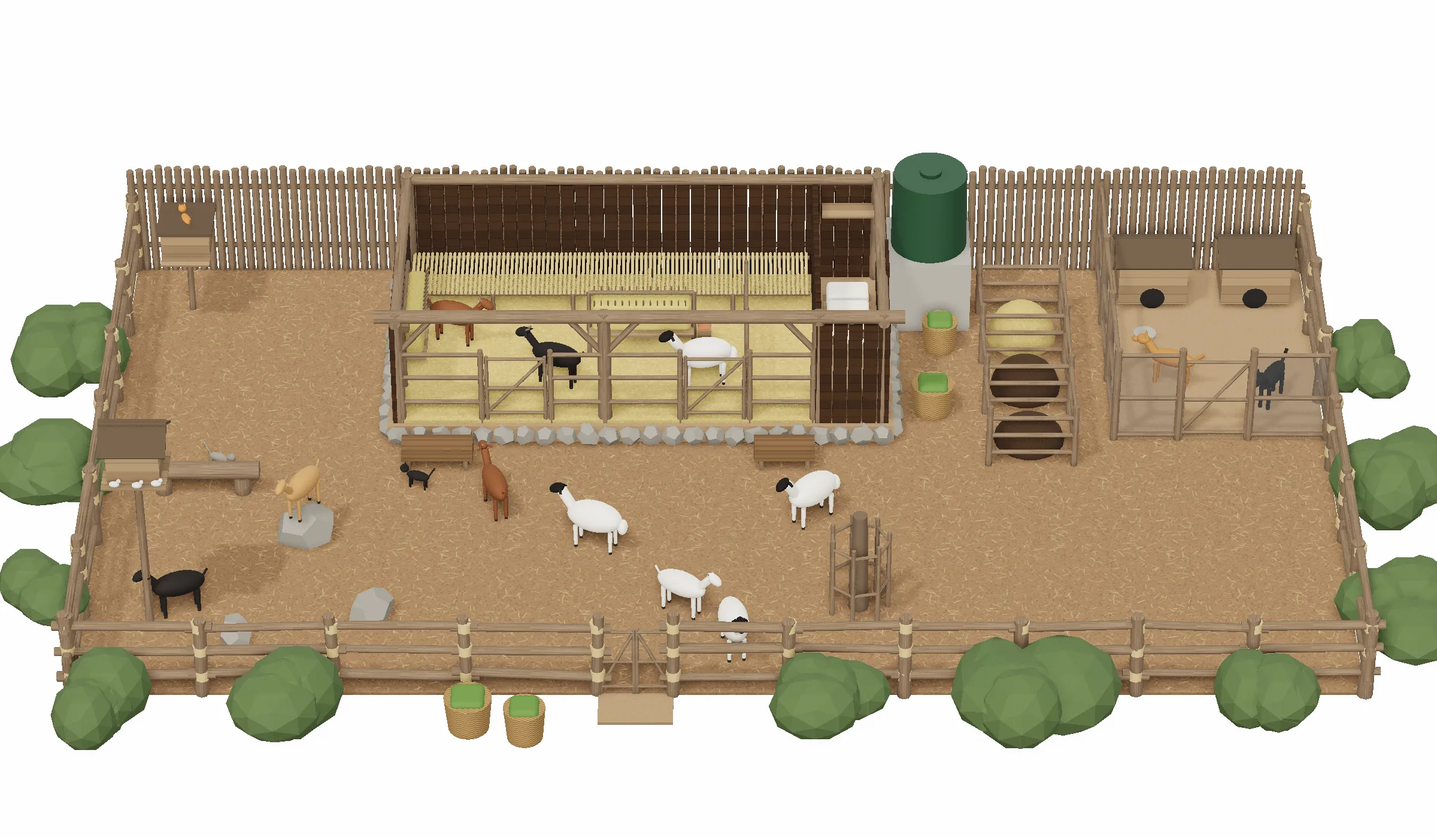
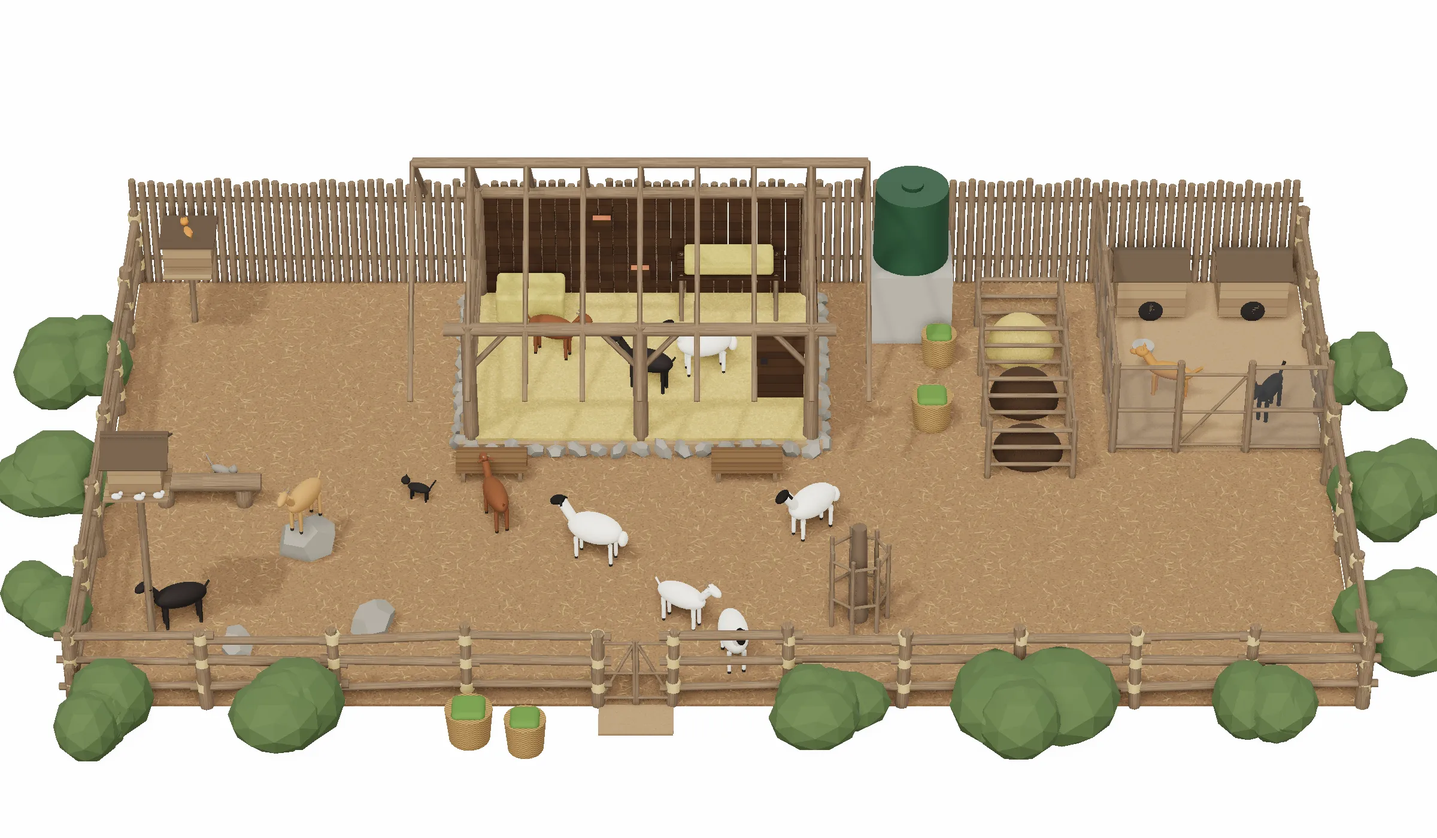
feat(livestock): the herd sleeps in a shed like the photo's; D-044
The founder asked for the herd's building to be the reference photo's shed. One
5.0 x 3.6 m shed replaces the hall and its feed store: boarded back and east end,
the west side open behind two rails, braced front posts, a steep thatched gable,
and inside a straw bale, a feed table and a lockable feed bin. The 3D shows the
gable's rafters with the thatch off, so the shed shows inside.

Claude-Session: https://claude.ai/code/session_01S6J7HfcfzMCDbDDKUuUjeQ

Changed region(s): [[0.0, 0.1843, 1.0, 0.9214], [0.125, 0.3686, 0.1875, 0.3993]]

diff --git a/scripts/site/render/livestock.html b/scripts/site/render/livestock.html
@@ -1,16 +1,15 @@
 <!doctype html>
 <!--
-  /en/livestock's 3D, in the pattern of the studio's (scripts/studio/render/room.html): the livestock yard (D-037 to
-  D-039) seen straight on from the paddock, the roofs off so the hall shows, on the white page. Built from
-  src/components/livestock/livestock.json (the numbers the 2D draws): one outline, the palisade at the back and one
-  post-and-rail fence round the rest; inside it the shelter of upright eucalyptus poles on its fieldstone plinth, the
-  open hall with straw litter, one slatted bamboo sleeping platform, two hay racks and the movable kidding hurdles,
-  the boarded feed store; the village yard the herd, the farm friends and the guests share, with troughs, climbing
-  stones, the guarded shade tree, the dovecote, the cats' house and a bench; the tank, the fodder baskets, the
-  compost bays and the guard dogs' run in the back east corner; shrubs round the outside. 6 goats, 4 sheep, 2 dogs,
-  3 cats and doves. In the feel of the founder's reference photo (D-041): hand-cut poles that lean a little, rails
-  lashed bay by bay, soft overcast light. The crowns of the trees are cut like the roof: from this height they would
-  hide the hall and the store; the trees behind the palisade show only at eye level. Rendered three ways:
+  /en/livestock's 3D, in the pattern of the studio's (scripts/studio/render/room.html): the livestock yard (D-039 to
+  D-044) seen straight on from the paddock, on the white page. Built from src/components/livestock/livestock.json (the
+  numbers the 2D draws): one outline, the palisade at the back and one post-and-rail fence round the rest, its rails
+  thick, crooked and lashed with rope as the founder's photo's; inside it the herd's shed, as the photo's shed: dark
+  weathered boards at the back and the east end, the west side open behind two rails, heavy front posts braced to the
+  eaves beam, the steep gable's rafters standing with the thatch off (as the studio's roof), straw, a straw bale, a
+  slatted feed table, a lockable feed bin and the mineral boxes; the village yard with troughs, climbing stones, the
+  guarded shade tree, the dovecote, the cats' house and a bench; the tank, the fodder baskets, the compost bays and
+  the guard dogs' run in the back east corner; shrubs round the outside. 6 goats, 4 sheep, 2 dogs, 3 cats and doves,
+  in soft overcast light. The page's hero is the founder's photo (D-042), not a render. Rendered three ways:
 
     ?mode=line  line drawing on a transparent ground   -> public/designs/livestock/render/livestock-line.png
     ?mode=real  materials, daylight and soft shadow    -> public/designs/livestock/render/livestock-real.webp
@@ -169,7 +168,7 @@ function mat(name) {
       fodder: () => std({ color: "#5d7d3a", roughness: 0.9 }),
       trunk: () => std({ color: "#6d5a48", roughness: 0.9 }),
       leaf: () => std({ color: "#55663f", roughness: 0.95, flatShading: true }),
-      thatch: () => std({ map: T.thatch, roughness: 1, side: THREE.DoubleSide }),
+      thatch: () => std({ map: T.thatch, color: "#a39684", roughness: 1, side: THREE.DoubleSide }), // grey-brown, weathered, as the photo's
       lawn: () => std({ map: T.grass, roughness: 1 }),
       face: () => std({ color: "#211c19", roughness: 0.85 }),
       horn: () => std({ color: "#7d6e5e", roughness: 0.6 }),
@@ -228,19 +227,18 @@ function pipe(a, b, r, name, seg = 6) {
 const pole = (x, z, r, y0, y1, seg = 7) => cyl(x, z, r, y0, y1 - y0, "pole", seg, r * 0.92)
 
 // ------------------------------------------------------------ the plan
-const { shelter: S, pens: P, platform: PF, fittings: FT, yards: Y, palisade: PA, stones: ST, tree: TR, tank: TK,
+const { shelter: S, pens: P, fittings: FT, yards: Y, palisade: PA, stones: ST, tree: TR, tank: TK,
   baskets: BK, compost: CO, dogs: DG, friends: FR, planting: PL, animals: AN } = C
 const L = S.l / 2, W = S.d / 2, WALL = S.wall
 const FL = S.plinth.h // the plinth's top, the pens' floor
 const LIT = FL + 0.05 // the top of the straw litter
 const EAVE = S.roof.eaves
-const { hall: HALL, kidding: KID, store: STORE } = P
 const RAILS = [0.35, 0.78, 1.18]
 
 // ------------------------------------------------------------ the ground: the village yard's earth and straw inside the outline, the plinth
 blk(Y.x0, Y.y0, Y.x1, Y.y1, -0.02, 0.02, "yard")
 blk(Y.gate.x0, Y.y1, Y.gate.x0 + Y.gate.w, Y.y1 + 0.6, -0.02, 0.015, "packed") // the track out of the gate to the paddock
-// the path behind the store to the tank, the baskets and the compost bays
+// the path past the shed's east end to the tank, the baskets and the compost bays
 blk(L + S.plinth.edge, -W - 0.4, CO.x0 + CO.bay + 0.3, W, -0.02, 0.015, "packed")
 if (HERO) {
   T.grass.repeat.set(10, 10)
@@ -261,37 +259,11 @@ if (HERO) {
   }
   const [a, b, c, d] = [-L - e + 0.13, L + e - 0.13, -W - e + 0.13, W + e - 0.13]
   ring(a, d, b, d); ring(a, c, a, d); ring(b, c, b, d)
-  blk(-L + WALL, -W + WALL, HALL.x1 - 0.03, W, FL, LIT, "litter")
+  blk(-L + 0.02, -W + WALL, L - WALL, W, FL, LIT, "litter")
 }
 
-// ------------------------------------------------------------ the shelter, as the founder's photo's shed: wide dark weathered boards set upright at the
-// back and the ends, heavy barked posts along the open front, braced to the eaves beam
-{
-  const plank = (x0, z0, x1, z1) => blk(x0, z0, x1, z1, FL, EAVE - 0.04 + (rnd() - 0.5) * 0.06, "plank")
-  for (let x = -L; x < L - 0.05; x += 0.21) plank(x, -W, Math.min(x + 0.19, L), -W + WALL)
-  for (let z = -W + WALL; z < W - 0.05; z += 0.21) plank(-L, z, -L + WALL, Math.min(z + 0.19, W))
-  // the east end: boards beside the store's door, which opens onto the path behind
-  const door = 0.7
-  for (let z = -W + WALL; z < W - 0.05; z += 0.21) if (z + 0.19 < -0.02 || z > door + 0.02) plank(L - WALL, z, L, Math.min(z + 0.19, W))
-  // the corner and front posts, heavy and barked; the eaves beam and the wall plates; a knee brace at each front post
-  const posts = [-L + 0.09, (HALL.x0 + HALL.x1) / 2, STORE.x0, L - 0.09]
-  for (const x of posts) pole(x, W - 0.09, 0.1, FL, EAVE + 0.18, 9)
-  for (const x of [-L + 0.09, L - 0.09]) pole(x, -W + 0.09, 0.1, FL, EAVE + 0.12, 9)
-  pipe([-L - 0.2, EAVE + 0.1, W - 0.09], [L + 0.2, EAVE + 0.1, W - 0.09], 0.1, "pole", 9)
-  pipe([-L, EAVE + 0.04, -W + 0.09], [L, EAVE + 0.04, -W + 0.09], 0.08, "pole", 9)
-  for (const x of [-L + 0.09, L - 0.09]) pipe([x, EAVE + 0.04, -W], [x, EAVE + 0.04, W], 0.08, "pole", 9)
-  for (const x of posts) for (const s of [-1, 1]) {
-    if ((x === posts[0] && s < 0) || (x === posts.at(-1) && s > 0)) continue
-    pipe([x, EAVE - 0.55, W - 0.09], [x + s * 0.5, EAVE + 0.06, W - 0.09], 0.045, "pole", 6)
-  }
-  // the store's boarded walls: its west wall, its front onto the yard, its door shut on a hasp
-  for (let z = -W + WALL; z < W - 0.05; z += 0.21) blk(STORE.x0 - 0.04, z, STORE.x0 + 0.04, Math.min(z + 0.19, W), FL, EAVE, "plank")
-  for (let x = STORE.x0; x < L - WALL - 0.05; x += 0.21) blk(x, W - 0.07, Math.min(x + 0.19, L - WALL), W, FL, EAVE, "plank")
-  blk(L - 0.04, 0, L + 0.01, door, FL, FL + 1.9, "plank")
-  blk(L + 0.01, 0.06, L + 0.03, 0.18, FL + 1.0, FL + 1.06, "pole")
-}
-
-// ------------------------------------------------------------ the hall: one open space; its front a rail and two gates, shut at night
+// ------------------------------------------------------------ the herd's shed, as the founder's photo's: wide dark weathered boards set upright at the back and
+// the east end, the west side open behind two rails, heavy barked posts along the open front braced to the eaves beam
 function rails(x0, z0, x1, z1, y0, heights, r = 0.035) {
   for (const h of heights) pipe([x0, y0 + h, z0], [x1, y0 + h, z1], r, "pole", 7)
 }
@@ -301,51 +273,37 @@ function gate(x0, z0, x1, z1, y0, h) { // shut: a frame of thin poles with a dia
   pipe([x0, y0 + 0.12, z0], [x1, y0 + h - 0.04, z1], 0.025, "pole", 6)
 }
 {
-  const ends = [HALL.x0 + WALL, ...P.gates.flatMap((g) => [g, g + P.gate]), HALL.x1 - 0.03]
-  for (let i = 0; i < ends.length; i += 2) {
-    pole(ends[i] + 0.04, W - 0.04, 0.045, FL, FL + 1.25); pole(ends[i + 1] - 0.04, W - 0.04, 0.045, FL, FL + 1.25)
-    rails(ends[i], W - 0.04, ends[i + 1], W - 0.04, FL, RAILS)
+  const plank = (x0, z0, x1, z1) => blk(x0, z0, x1, z1, FL, EAVE - 0.04 + (rnd() - 0.5) * 0.06, "plank")
+  for (let x = -L + 0.18; x < L - 0.05; x += 0.21) plank(x, -W, Math.min(x + 0.19, L), -W + WALL)
+  for (let z = -W + WALL; z < W - 0.15; z += 0.21) plank(L - WALL, z, L, Math.min(z + 0.19, W - 0.15))
+  // the posts: the four corners and the middle of the front, heavy and barked; the eaves beam and the plates
+  const posts = [-L + 0.09, 0, L - 0.09]
+  for (const x of posts) pole(x, W - 0.09, 0.11, FL, EAVE + 0.18, 9)
+  for (const x of [-L + 0.09, L - 0.09]) pole(x, -W + 0.09, 0.1, FL, EAVE + 0.12, 9)
+  pipe([-L - 0.25, EAVE + 0.1, W - 0.09], [L + 0.25, EAVE + 0.1, W - 0.09], 0.1, "pole", 9)
+  pipe([-L - 0.2, EAVE + 0.04, -W + 0.09], [L + 0.2, EAVE + 0.04, -W + 0.09], 0.09, "pole", 9)
+  for (const x of [-L + 0.09, L - 0.09]) pipe([x, EAVE + 0.04, -W], [x, EAVE + 0.04, W], 0.08, "pole", 9)
+  for (const x of posts) for (const s of [-1, 1]) { // a knee brace each side of each front post, as the photo's
+    if ((x === posts[0] && s < 0) || (x === posts.at(-1) && s > 0)) continue
+    pipe([x, EAVE - 0.6, W - 0.09], [x + s * 0.55, EAVE + 0.06, W - 0.09], 0.045, "pole", 6)
   }
-  for (const g of P.gates) gate(g + 0.04, W - 0.04, g + P.gate - 0.04, W - 0.04, FL + 0.04, 1.1)
-  // the movable kidding hurdles, standing across the hall's east end
-  const kz0 = -W + WALL + PF.d + 0.05, kz1 = W - 0.2
-  for (const z of [kz0, (kz0 + kz1) / 2, kz1]) pole(KID.x0, z, 0.035, LIT, LIT + 1.0)
-  rails(KID.x0, kz0, KID.x0, kz1, LIT, [0.25, 0.6, 0.95], 0.028)
-}
-
-// ------------------------------------------------------------ in the hall: the sleeping platform, the hay racks, the mineral boxes
-{
-  const px0 = HALL.x0 + WALL + 0.03, px1 = HALL.x1 - 0.07
-  const z0 = -W + WALL + 0.02, z1 = -W + WALL + PF.d, top = LIT + PF.h
-  for (let x = px0 + 0.04; x <= px1 - 0.03; x += Math.min(1.2, (px1 - px0) / Math.ceil((px1 - px0) / 1.2)))
-    for (const z of [z0 + 0.04, z1 - 0.04]) pole(x, z, 0.035, LIT - 0.02, top - 0.03)
-  for (const z of [z0 + 0.05, z1 - 0.05]) pipe([px0, top - 0.05, z], [px1, top - 0.05, z], 0.035, "pole", 7)
-  for (let x = px0 + 0.03; x < px1 - 0.02; x += LINE ? 0.11 : 0.065) pipe([x, top - 0.01, z0], [x, top - 0.01, z1], 0.025, "bamboo", 6)
-  // the racks, off the floor: a pole frame, slanted bars, a tray, hay; the west one on the wall, the middle one fed from both sides
-  const y0 = LIT + FT.rack.y0, y1 = y0 + FT.rack.h
-  for (const r of FT.racks) {
-    const alongZ = r.y1 - r.y0 > r.x1 - r.x0
-    for (const [x, z] of alongZ ? [[r.x0 + 0.04, r.y0], [r.x0 + 0.04, r.y1]] : [[r.x0, (r.y0 + r.y1) / 2], [r.x1, (r.y0 + r.y1) / 2]]) pole(x, z, 0.035, LIT, y1)
-    blk(r.x0, r.y0, r.x1, r.y1, y0 - 0.05, y0, "board")
-    if (alongZ) for (let z = r.y0 + 0.08; z < r.y1 - 0.04; z += LINE ? 0.15 : 0.1) pipe([r.x1, y1 - 0.02, z], [r.x0 + 0.06, y0, z], 0.012, "pole", 5)
-    else for (let x = r.x0 + 0.08; x < r.x1 - 0.04; x += LINE ? 0.15 : 0.1) for (const s of [-1, 1]) pipe([x, y1 - 0.02, (r.y0 + r.y1) / 2 + s * 0.17], [x, y0, (r.y0 + r.y1) / 2], 0.012, "pole", 5)
-    pipe(alongZ ? [r.x0 + 0.04, y1, r.y0] : [r.x0, y1, (r.y0 + r.y1) / 2], alongZ ? [r.x0 + 0.04, y1, r.y1] : [r.x1, y1, (r.y0 + r.y1) / 2], 0.03, "pole", 7)
-    if (!LINE) soft(r.x0 + 0.04, r.y0 + 0.04, r.x1 - 0.04, r.y1 - 0.04, y0, y1 - 0.1, 0.08, "hay")
-  }
-  // the goats' mineral box high on the west wall, the sheep's low by the middle rack
-  for (const m of FT.minerals) {
-    if (m.for === "sheep") pole((m.x0 + m.x1) / 2, (m.y0 + m.y1) / 2, 0.03, LIT, LIT + m.z)
-    blk(m.x0, m.y0, m.x1, m.y1, LIT + m.z, LIT + m.z + 0.2, "board")
+  // the open west side: two barked rails between the corner posts
+  rails(-L + 0.09, -W + 0.09, -L + 0.09, W - 0.09, FL, P.rails, 0.05)
+  // inside, as the photo's: the straw bale, the slatted feed table with hay, the lockable feed bin, the mineral boxes
+  const b = P.bale
+  soft(b.x0, b.y0, b.x1, b.y1, LIT, LIT + 0.5, 0.07, "hay")
+  const t = P.table
+  for (const x of [t.x0 + 0.06, t.x1 - 0.06]) for (const z of [t.y0 + 0.06, t.y1 - 0.06]) pole(x, z, 0.035, LIT, LIT + t.h)
+  for (let z = t.y0; z < t.y1 - 0.02; z += 0.1) blk(t.x0, z, t.x1, z + 0.08, LIT + t.h - 0.03, LIT + t.h, "plank")
+  if (!LINE) soft(t.x0 + 0.1, t.y0 + 0.05, t.x1 - 0.1, t.y1 - 0.05, LIT + t.h, LIT + t.h + 0.2, 0.06, "hay")
+  const n = P.bin
+  blk(n.x0, n.y0, n.x1, n.y1, LIT, LIT + 0.8, "plank")
+  blk(n.x0 - 0.02, n.y0 - 0.02, n.x1 + 0.02, n.y1 + 0.02, LIT + 0.8, LIT + 0.84, "plank")
+  if (!LINE) blk(n.x0 + 0.05, n.y1 + 0.02, n.x0 + 0.15, n.y1 + 0.04, LIT + 0.62, LIT + 0.72, "dogblack") // its hasp
+  for (const m of P.minerals) {
+    blk(m.x0, m.y0, m.x1, m.y1, LIT + m.z, LIT + m.z + 0.2, "plank")
     if (!LINE) blk(m.x0 + 0.02, m.y0 + 0.02, m.x1 - 0.02, m.y1 - 0.02, LIT + m.z + 0.18, LIT + m.z + 0.21, "mineral")
   }
-}
-
-// ------------------------------------------------------------ the feed store: sacks on a pallet, a shelf
-{
-  const [x0, x1] = [STORE.x0 + 0.12, STORE.x1 - 0.18]
-  blk(x0, -1.2, x1, 0.2, FL, FL + 0.12, "board")
-  for (const [z, k] of [[-0.95, 0], [-0.5, 0], [-0.05, 0], [-0.72, 1], [-0.27, 1]]) soft(x0 + 0.05, z - 0.19, x1 - 0.05, z + 0.19, FL + 0.12 + k * 0.2, FL + 0.32 + k * 0.2, 0.06, "sack")
-  blk(STORE.x0 + 0.1, -W + WALL, L - WALL, -W + WALL + 0.35, FL + 1.3, FL + 1.33, "board")
 }
 
 // ------------------------------------------------------------ the outline and the yard: posts and three lashed rails, the gate, troughs
@@ -440,15 +398,17 @@ for (const s of ST.list) {
   }
 }
 
-// ------------------------------------------------------------ the roof, at eye level only: grass thatch on a pole gable
-if (HERO) {
-  const o = S.roof.over, rise = S.roof.ridge - EAVE, half = W + o
-  const len = Math.hypot(half, rise), a = Math.atan2(rise, half)
-  for (const s of [1, -1]) {
-    const r = add(new THREE.BoxGeometry(S.l + 2 * o, 0.25, len), "thatch", { pos: [0, EAVE + rise / 2 + 0.1, (s * half) / 2] })
-    r.rotation.x = s * a
+// ------------------------------------------------------------ the roof, as the photo's steep gable: the thatch off in this cutaway (as the studio's roof),
+// its pole rafters and ridge left standing so the shape reads and the shed shows inside
+{
+  const o = S.roof.over, rise = S.roof.ridge - EAVE, R = S.roof.ridge + 0.05
+  for (const x of [-L + 0.09, L - 0.09]) pole(x, 0, 0.07, EAVE, S.roof.ridge)
+  pipe([-L - o, R, 0], [L + o, R, 0], 0.08, "pole", 8)
+  const n = Math.round((S.l + 2 * o) / 0.8)
+  for (let k = 0; k <= n; k++) {
+    const x = -L - o + ((S.l + 2 * o) * k) / n
+    for (const s of [1, -1]) pipe([x, R, 0], [x, EAVE - (o * rise) / W + 0.1, s * (W + o)], 0.045, "pole", 6)
   }
-  for (const s of [1, -1]) pole(s * (L - WALL / 2), 0, 0.07, EAVE, S.roof.ridge)
 }
 
 // ------------------------------------------------------------ the herd: 6 goats and 4 sheep

diff --git a/src/components/livestock/livestock-plan.tsx b/src/components/livestock/livestock-plan.tsx
@@ -2,13 +2,14 @@ import livestock from "./livestock.json"
 
 // The livestock yard drawn in the pattern of the studio's plan (public/designs/studio/render/plan.svg): solid walls
 // in black, fittings in thin outline, what is where named in one row above and only the two overall dimensions.
-// One outline holds it all (D-039): the palisade at the back, one post-and-rail fence round the rest. The shelter's
-// open hall faces down the page onto the village yard, toward the paddock and the viewer of the 3D. Units are
+// One outline holds it all (D-039): the palisade at the back, one post-and-rail fence round the rest. The herd's shed,
+// as the founder's photo's (D-044), opens down the page onto the village yard, toward the paddock and the viewer of
+// the 3D. Units are
 // metres, the shelter's centre at 0,0, y toward the yard. All in currentColor, so the page sets its colour.
 
-const { shelter, pens, platform, fittings, yards, palisade, stones, tree, tank, baskets, compost, dogs, friends, planting } = livestock
-const WALL = 0.1 // the pole back wall and the ends, and the feed store's boarded walls
-const FENCE = 0.04 // the rail and gates across the hall's open front
+const { shelter, pens, fittings, yards, palisade, stones, tree, tank, baskets, compost, dogs, friends, planting } = livestock
+const WALL = 0.1 // the shed's boarded back and east end
+const FENCE = 0.04 // the rails along the shed's open west side
 const line = { fill: "none", stroke: "currentColor", strokeWidth: 0.9, vectorEffect: "non-scaling-stroke" } as const
 const fine = { ...line, strokeWidth: 0.6 } as const
 const dashed = { ...line, strokeDasharray: "4 3" } as const
@@ -72,9 +73,7 @@ function DimensionUp({ y0, y1, x }: { y0: number; y1: number; x: number }) {
 
 export function LivestockPlan({ title, className }: { title: string; className?: string }) {
   const L = shelter.l / 2, W = shelter.d / 2, E = shelter.plinth.edge
-  const { hall, kidding, store } = pens
   const Y = yards.y1
-  const door = 0.7
   const { dovecote, cats, bench } = friends
   const yg = yards.gate, dg = dogs.gate
   const edge = { x0: Math.min(...planting.shrubs.map((b) => b.x - b.r)), x1: Math.max(...planting.shrubs.map((b) => b.x + b.r)),
@@ -82,9 +81,6 @@ export function LivestockPlan({ title, className }: { title: string; className?:
   const x0 = edge.x0 - 0.3, x1 = edge.x1 + 0.75
   const dimY = edge.y1 + 0.35, top = palisade.y - 0.6, bottom = dimY + 0.6
   const row = palisade.y - 0.25 // the names, in one row above the palisade
-  const px0 = hall.x0 + WALL + 0.03, px1 = hall.x1 - WALL / 2 - 0.03 // the sleeping platform
-  const py0 = -W + WALL, py1 = -W + WALL + platform.d
-  const front = [hall.x0 + WALL, ...pens.gates.flatMap((g) => [g, g + pens.gate]), hall.x1] // rail runs between the gates
   return (
     <svg viewBox={`${f(x0)} ${f(top)} ${f(x1 - x0)} ${f(bottom - top)}`} role="img" aria-label={title} className={className}>
       {/* The outline: the palisade of upright poles at the back, one post-and-rail fence round the rest, one gate of
@@ -98,33 +94,27 @@ export function LivestockPlan({ title, className }: { title: string; className?:
       <Fence x0={yards.x1} y0={Y} x1={yards.x1} y1={yards.y0} />
       {[yg.x0, yg.x0 + yg.w].map((x, i) => <Gate key={x} x={x} y={Y} w={yg.w / 2} c={[i ? -1 : 1, 0]} o={[0, -1]} />)}
 
-      {/* The shelter on its fieldstone plinth: pole back wall and ends to the eaves, the feed store boarded with its
-          door on the east gable */}
+      {/* The shed, as the photo's, on its low fieldstone plinth: the thatch's overhang dashed, the back and the east end
+          boarded, the west side open behind two rails, the front open under its braced posts (dots) */}
+      <rect {...rect(-L - shelter.roof.over, -W - shelter.roof.over, L + shelter.roof.over, W + shelter.roof.over)} {...dashed} />
       <rect {...rect(-L - E, -W - E, L + E, W + E)} {...fine} />
       <rect {...rect(-L, -W, L, -W + WALL)} {...solid} />
-      <rect {...rect(-L, -W, -L + WALL, W)} {...solid} />
-      <rect {...rect(L - WALL, -W, L, 0)} {...solid} />
-      <rect {...rect(L - WALL, door, L, W)} {...solid} />
-      <Gate x={L} y={door} w={door} c={[0, -1]} o={[1, 0]} />
-      <rect {...rect(store.x0 - WALL / 2, -W + WALL, store.x0 + WALL / 2, W)} {...solid} />
-      <rect {...rect(store.x0, W - WALL, L, W)} {...solid} />
+      <rect {...rect(L - WALL, -W, L, W)} {...solid} />
+      <rect {...rect(-L + 0.02, -W + WALL, -L + 0.02 + FENCE, W - 0.1)} {...solid} />
+      {[-L + 0.09, 0, L - 0.09].map((x) => <circle key={x} cx={f(x)} cy={f(W - 0.09)} r={0.1} {...solid} />)}
+      <circle cx={f(-L + 0.09)} cy={f(-W + 0.09)} r={0.1} {...solid} />
 
-      {/* The hall's open front: a rail and two gates, shut at night */}
-      {front.filter((_, i) => i % 2 === 0).map((a, i) => <rect key={a} {...rect(a, W - FENCE / 2, front[i * 2 + 1], W + FENCE / 2)} {...solid} />)}
-      {pens.gates.map((g) => <Gate key={g} x={g + pens.gate} y={W} w={pens.gate} c={[-1, 0]} o={[0, 1]} />)}
-
-      {/* In the hall: the bamboo sleeping platform along the whole back, the movable kidding hurdles (dashed), the hay
-          racks on the west wall and in the middle, the goats' mineral box high, the sheep's low */}
-      <rect {...rect(px0, py0, px1, py1)} {...line} />
-      {Array.from({ length: Math.floor((px1 - px0) / 0.25) }, (_, k) => f(px0 + (k + 1) * 0.25)).filter((x) => x < px1 - 0.05).map((x) => (
-        <line key={x} x1={x} x2={x} y1={f(py0)} y2={f(py1)} {...fine} />
-      ))}
-      <path d={`M${kidding.x0} ${f(py1)}L${kidding.x0} ${f(W - 0.15)}`} {...dashed} />
-      {fittings.racks.map((r) => <rect key={r.x0} {...box(r)} {...line} />)}
-      {fittings.minerals.map((m) => <rect key={m.x0} {...box(m)} {...line} />)}
-
-      {/* The feed store: three sacks on a pallet */}
-      {[-0.95, -0.5, -0.05].map((y) => <rect key={y} {...rect(store.x0 + 0.18, y - 0.18, store.x1 - 0.18, y + 0.18)} rx={0.07} {...line} />)}
+      {/* Inside, as the photo's: the straw bale, the slatted feed table, the lockable feed bin; the goats' mineral box
+          high on the back wall and the sheep's low */}
+      <rect {...box(pens.bale)} rx={0.08} {...line} />
+      <rect {...box(pens.table)} {...line} />
+      {[0.25, 0.5, 0.75].map((t) => {
+        const x = f(pens.table.x0 + (pens.table.x1 - pens.table.x0) * t)
+        return <line key={t} x1={x} x2={x} y1={pens.table.y0} y2={pens.table.y1} {...fine} />
+      })}
+      <rect {...box(pens.bin)} {...line} />
+      <line x1={pens.bin.x0} x2={pens.bin.x1} y1={pens.bin.y0} y2={pens.bin.y1} {...fine} />
+      {pens.minerals.map((m) => <rect key={m.x0} {...box(m)} {...line} />)}
 
       {/* In the yard: the troughs under the eaves, stones to climb, the shade tree in its pole guard */}
       {fittings.troughs.map((t) => <rect key={t.x0} {...rect(t.x0, W + 0.4, t.x1, W + 0.4 + fittings.trough.d)} rx={0.08} {...line} />)}
@@ -140,7 +130,7 @@ export function LivestockPlan({ title, className }: { title: string; className?:
       <circle cx={cats.house.x} cy={cats.house.y} r={0.07} {...solid} />
       <rect {...rect(bench.x0, bench.y - 0.15, bench.x1, bench.y + 0.15)} rx={0.12} {...line} />
 
-      {/* Behind the store: the tank, the fodder baskets, the three compost bays with their removable front rail
+      {/* By the shed's east end: the tank, the fodder baskets, the three compost bays with their removable front rail
           (dashed) */}
       <circle cx={tank.x} cy={tank.y} r={tank.r} {...line} />
       {baskets.list.map((b) => (
@@ -180,10 +170,9 @@ export function LivestockPlan({ title, className }: { title: string; className?:
 
       {/* What is where, in one row above, as the studio's BED, SEATING, GALLEY, BATH; the rest in place */}
       {([
-        [cats.house.x, "CATS"], [(hall.x0 + kidding.x0) / 2, hall.label], [(store.x0 + store.x1) / 2, store.label], [tank.x, "TANK"],
+        [cats.house.x, "CATS"], [0, pens.label], [tank.x, "TANK"],
         [compost.x0 + compost.bay / 2, "COMPOST"], [(dogs.x0 + dogs.x1) / 2, "DOGS"],
       ] as const).map(([x, t]) => <text key={t} x={f(x)} y={f(row)} textAnchor="middle" style={label}>{t}</text>)}
-      <text x={f((kidding.x0 + kidding.x1) / 2)} y={f(W - 0.35)} textAnchor="middle" style={small}>{kidding.label}</text>
       <text x={-1.0} y={3.4} textAnchor="middle" style={label}>VILLAGE YARD</text>
       <text x={dovecote.x} y={f(dovecote.y + dovecote.s / 2 + 0.22)} textAnchor="middle" style={small}>DOVES</text>
       <text x={f((bench.x0 + bench.x1) / 2)} y={f(bench.y + 0.4)} textAnchor="middle" style={small}>BENCH</text>

diff --git a/src/app/en/livestock/page.tsx b/src/app/en/livestock/page.tsx
@@ -29,15 +29,15 @@ export default function LivestockPage() {
 
       {/* 2D, full screen: the house's plan (src/components/livestock/livestock-plan.tsx), in the text colour. */}
       <DrawingSection id="plans" title="2D">
-        <LivestockPlan title="Plan: one outline 17,200 by 9,600 mm, a pole palisade at the back and a post-and-rail fence round the rest with one gate to the paddock. Inside, a thatched pole shelter 7,000 by 3,600 mm on a fieldstone plinth: one open hall for the herd with a slatted bamboo sleeping platform along the back, two hay racks, the goats’ mineral box high and the sheep’s low, movable kidding hurdles at the east end, a front rail with two gates, and the lockable feed store; the village yard for the herd, the farm friends and the guests, with troughs, climbing stones, a shade tree, a log bench, a dovecote and a cats’ house on posts; behind the store the tank, fodder baskets and three compost bays, and the guard dogs’ run with two kennels in the back east corner."
+        <LivestockPlan title="Plan: one outline 17,200 by 9,600 mm, a pole palisade at the back and a post-and-rail fence round the rest with one gate to the paddock. Inside, the herd’s shed as the founder’s photo’s, 5,000 by 3,600 mm under a thatched gable on a low fieldstone plinth: a boarded back and east end, the west side open behind two rails, the front open under three braced posts; inside a straw bale, a slatted feed table, a lockable feed bin and the two mineral boxes. The village yard for the herd, the cats, the doves and the guests, with troughs, climbing stones, a shade tree, a log bench, a dovecote and a cats’ house on posts; by the shed the tank, fodder baskets and three compost bays, and the guard dogs’ run with two kennels in the back east corner; shrubs round the outside."
           className="h-auto w-full lg:h-full lg:w-auto" />
       </DrawingSection>
 
       {/* 3D, in the 2D section's pattern: the yard seen straight on from the paddock with the roof off, as a line
           drawing, then rendered. Both from scripts/site/render/livestock.html. */}
       <ModelSection line={`${D}/render/livestock-line.png`} real={`${D}/render/livestock-real.webp`} width={2400} height={1400}
-        lineAlt="Line drawing of the livestock yard from the paddock with the roofs off: one outline, the palisade behind and a post-and-rail fence round the rest with a two-leaf gate; the shelter of upright poles on its fieldstone plinth with one long bamboo sleeping platform, two hay racks, the kidding hurdles and the front rail with two gates, the boarded feed store; goats and sheep mixing in the yard, one goat on a stone, troughs, a bench, the dovecote and the cats’ house on posts, three cats, the guarded tree, shrubs round the outside; the tank, the baskets, the compost bays and the dogs’ run with two kennels in the back corner."
-        realAlt="The same view rendered: grey-brown eucalyptus poles lashed with pale sisal, golden straw litter in the hall, red-brown earth and straw in the yard, brown, black, tan and white goats and white sheep with black faces, a ginger cat on its house and a grey and a black cat in the yard, doves on the dovecote, a green tank, woven baskets of green fodder, the compost bays and a tan and a black dog in their run." />
+        lineAlt="Line drawing of the livestock yard from the paddock: one outline, the palisade behind and a crooked post-and-rail fence round the rest with a two-leaf gate; the shed with its boarded back and side, its braced front posts and the rafters of its steep gable, a straw bale, a feed table and a feed bin inside; goats and sheep in the yard, one goat on a stone, troughs, a bench, the dovecote and the cats’ house on posts, three cats, the guarded tree; the tank, the baskets, the compost bays and the dogs’ run with two kennels in the back corner."
+        realAlt="The same view rendered: the shed of dark weathered boards with heavy barked posts and the pole rafters of its gable over golden straw, a straw bale and a feed table of hay; thick crooked rails lashed with rope round red-brown earth and straw; brown, black, tan and white goats and white sheep with black faces, a ginger cat on its house and a grey and a black cat, doves on the dovecote, a green tank, baskets of green fodder, the compost bays and a tan and a black dog in their run." />
     </main>
   )
 }

diff --git a/src/lib/design-blur.generated.ts b/src/lib/design-blur.generated.ts
@@ -11,7 +11,7 @@ export const DESIGN_BLUR: Record<string, string> = {
[8 lines of base64/hex data omitted]

diff --git a/src/app/en/farming/page.tsx b/src/app/en/farming/page.tsx
@@ -71,7 +71,7 @@ export default function FarmingPage() {
           </div>
           <p className="text-muted-foreground mt-3 max-w-2xl">Six goats and four sheep share a village yard with cats and doves, beyond the field: their litter goes to the compost bays and back to these beds.</p>
           <div className="mt-6 flex min-h-0 flex-1 items-center justify-center">
-            <LivestockPlan title="Plan of the livestock yard: one outline round a thatched pole shelter with one open hall for the herd and a feed store, one village yard for the herd, the cats, the doves and the guests, three compost bays and the guard dogs’ run."
+            <LivestockPlan title="Plan of the livestock yard: one outline round the herd’s thatched shed, one village yard for the herd, the cats, the doves and the guests, three compost bays and the guard dogs’ run."
               className="h-auto w-full lg:h-full lg:w-auto" />
           </div>
         </div>

diff --git a/study/execution/decision-log.md b/study/execution/decision-log.md
@@ -159,3 +159,6 @@ Context: the founder asked to use the reference photo as the hero, to redraw the
 
 **D-043 · 2026-10-29 · The livestock 3D takes the photo's shed and rails on our layout.**
 Context: the founder kept our design ("ours was good") and asked to copy the photo's shed and rails. Decision: in `scripts/site/render/livestock.html` the shelter's back, ends and feed store are wide dark weathered boards set upright, with heavy barked posts along the open front braced to the eaves beam, as the photo's shed; the fence posts are heavier and lean more, and every rail is thick, crooked and one bay long, overlapping the next at the post under a heavy rope lashing. The layout, the 2D and `livestock.json` are unchanged (D-039 to D-041).
+
+**D-044 · 2026-10-29 · The herd sleeps in a shed like the founder's photo's, in place of the open hall and its feed store.**
+Context: the founder asked for the herd's building to be a shed like the one in the reference photo. Decision: `src/components/livestock/livestock.json` replaces D-039's 7.0 m hall, its separate feed store, the bamboo sleeping platform, the hay racks and the front gates with one shed, 5.0 x 3.6 m (18 m2 for 10 head plus kids [A]), under a steep thatched gable that overhangs 0.7 m: a back and an east end of dark weathered upright boards, the west side open behind two rails, the front open under three heavy posts braced to the eaves beam, on a low fieldstone plinth deep in straw. Inside, as in the photo: a straw bale, a slatted feed table that keeps the hay off the floor, and a lockable feed bin for the feed (against theft and against the herd). The goats' mineral box stays high and the sheep's low. Kidding: two hurdles close off a corner when a doe or a ewe is due. The 3D shows the gable's rafters with the thatch off, as the studio's roof, so the shed shows inside. The rest of the yard is unchanged (D-039 to D-043). With the sleeping platform gone, the herd lies on deep straw on the raised plinth: the vet should confirm that is dry enough (livestock-plan §7).
